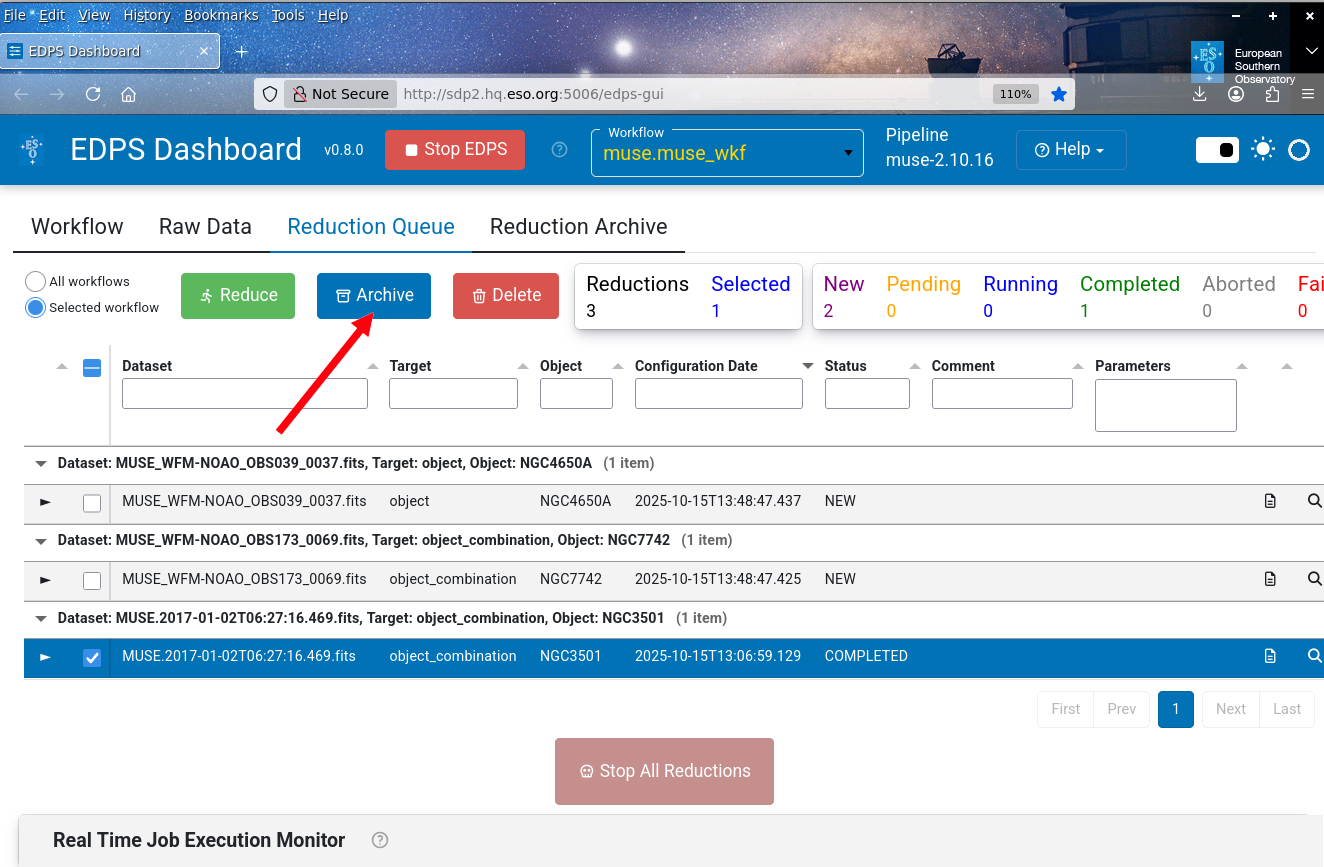
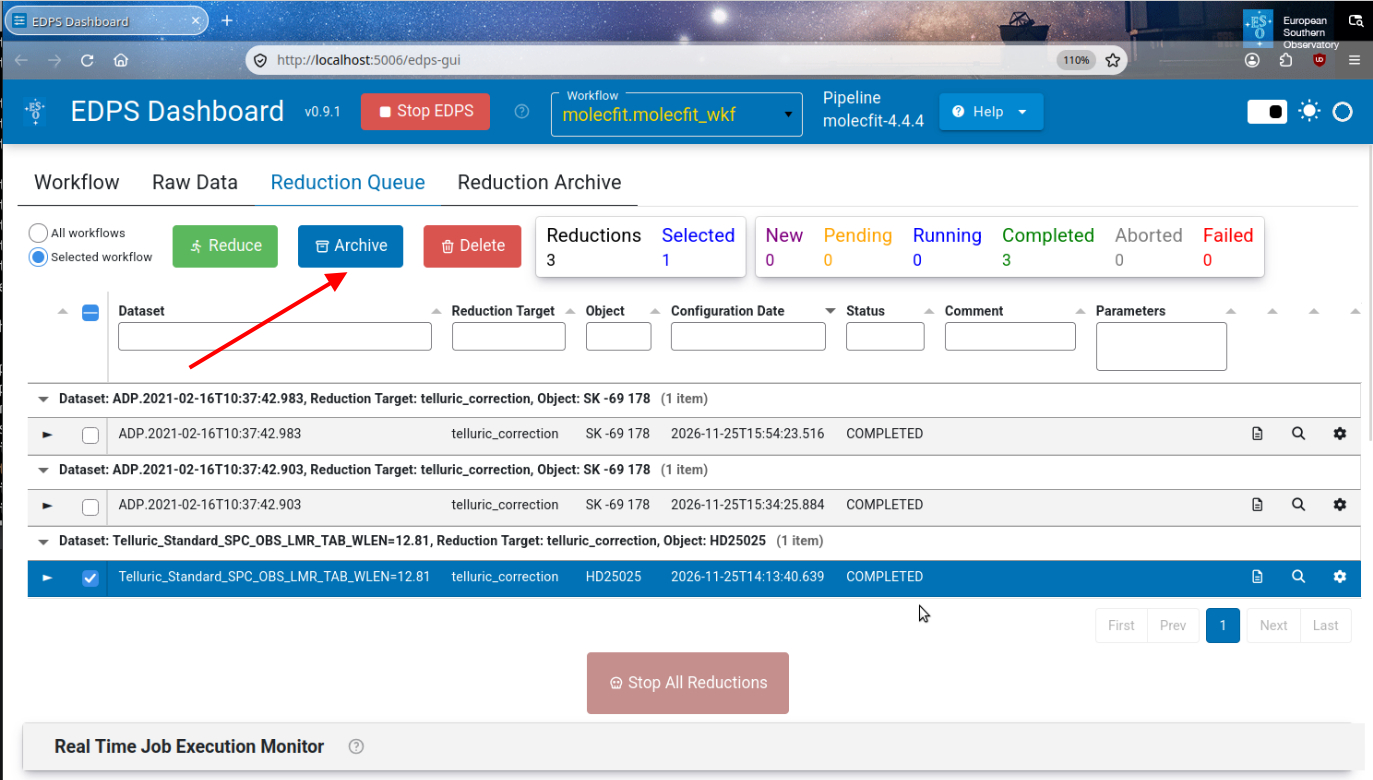
Update

diff --git a/edps-tex/molecfit/instrument_tutorial/reducing_demo_data.tex b/edps-tex/molecfit/instrument_tutorial/reducing_demo_data.tex
@@ -34,12 +34,7 @@ Exported products are organized by `DATASET` (named as the first
 scientific exposure of the dataset), and `TIMESTAMP` (time of start of
 reduction)
 
-The final products saved in the specified directory are: 
+The final product is the telluric corrected 1D spectrum. It is saved in the specified directory and has category {\tt SCIENCE\_TELLURIC\_CORR}.
+The naming of the columns and units in the input data are maintained in the final product.
 
 
-
-{\bf DESCRIBE HERE THE LIST OF THE FINAL EXPORTED PRODUCTS}
-\begin{itemize}
-\item product 1 ...
-\item product 2 ...
-\end{itemize}
